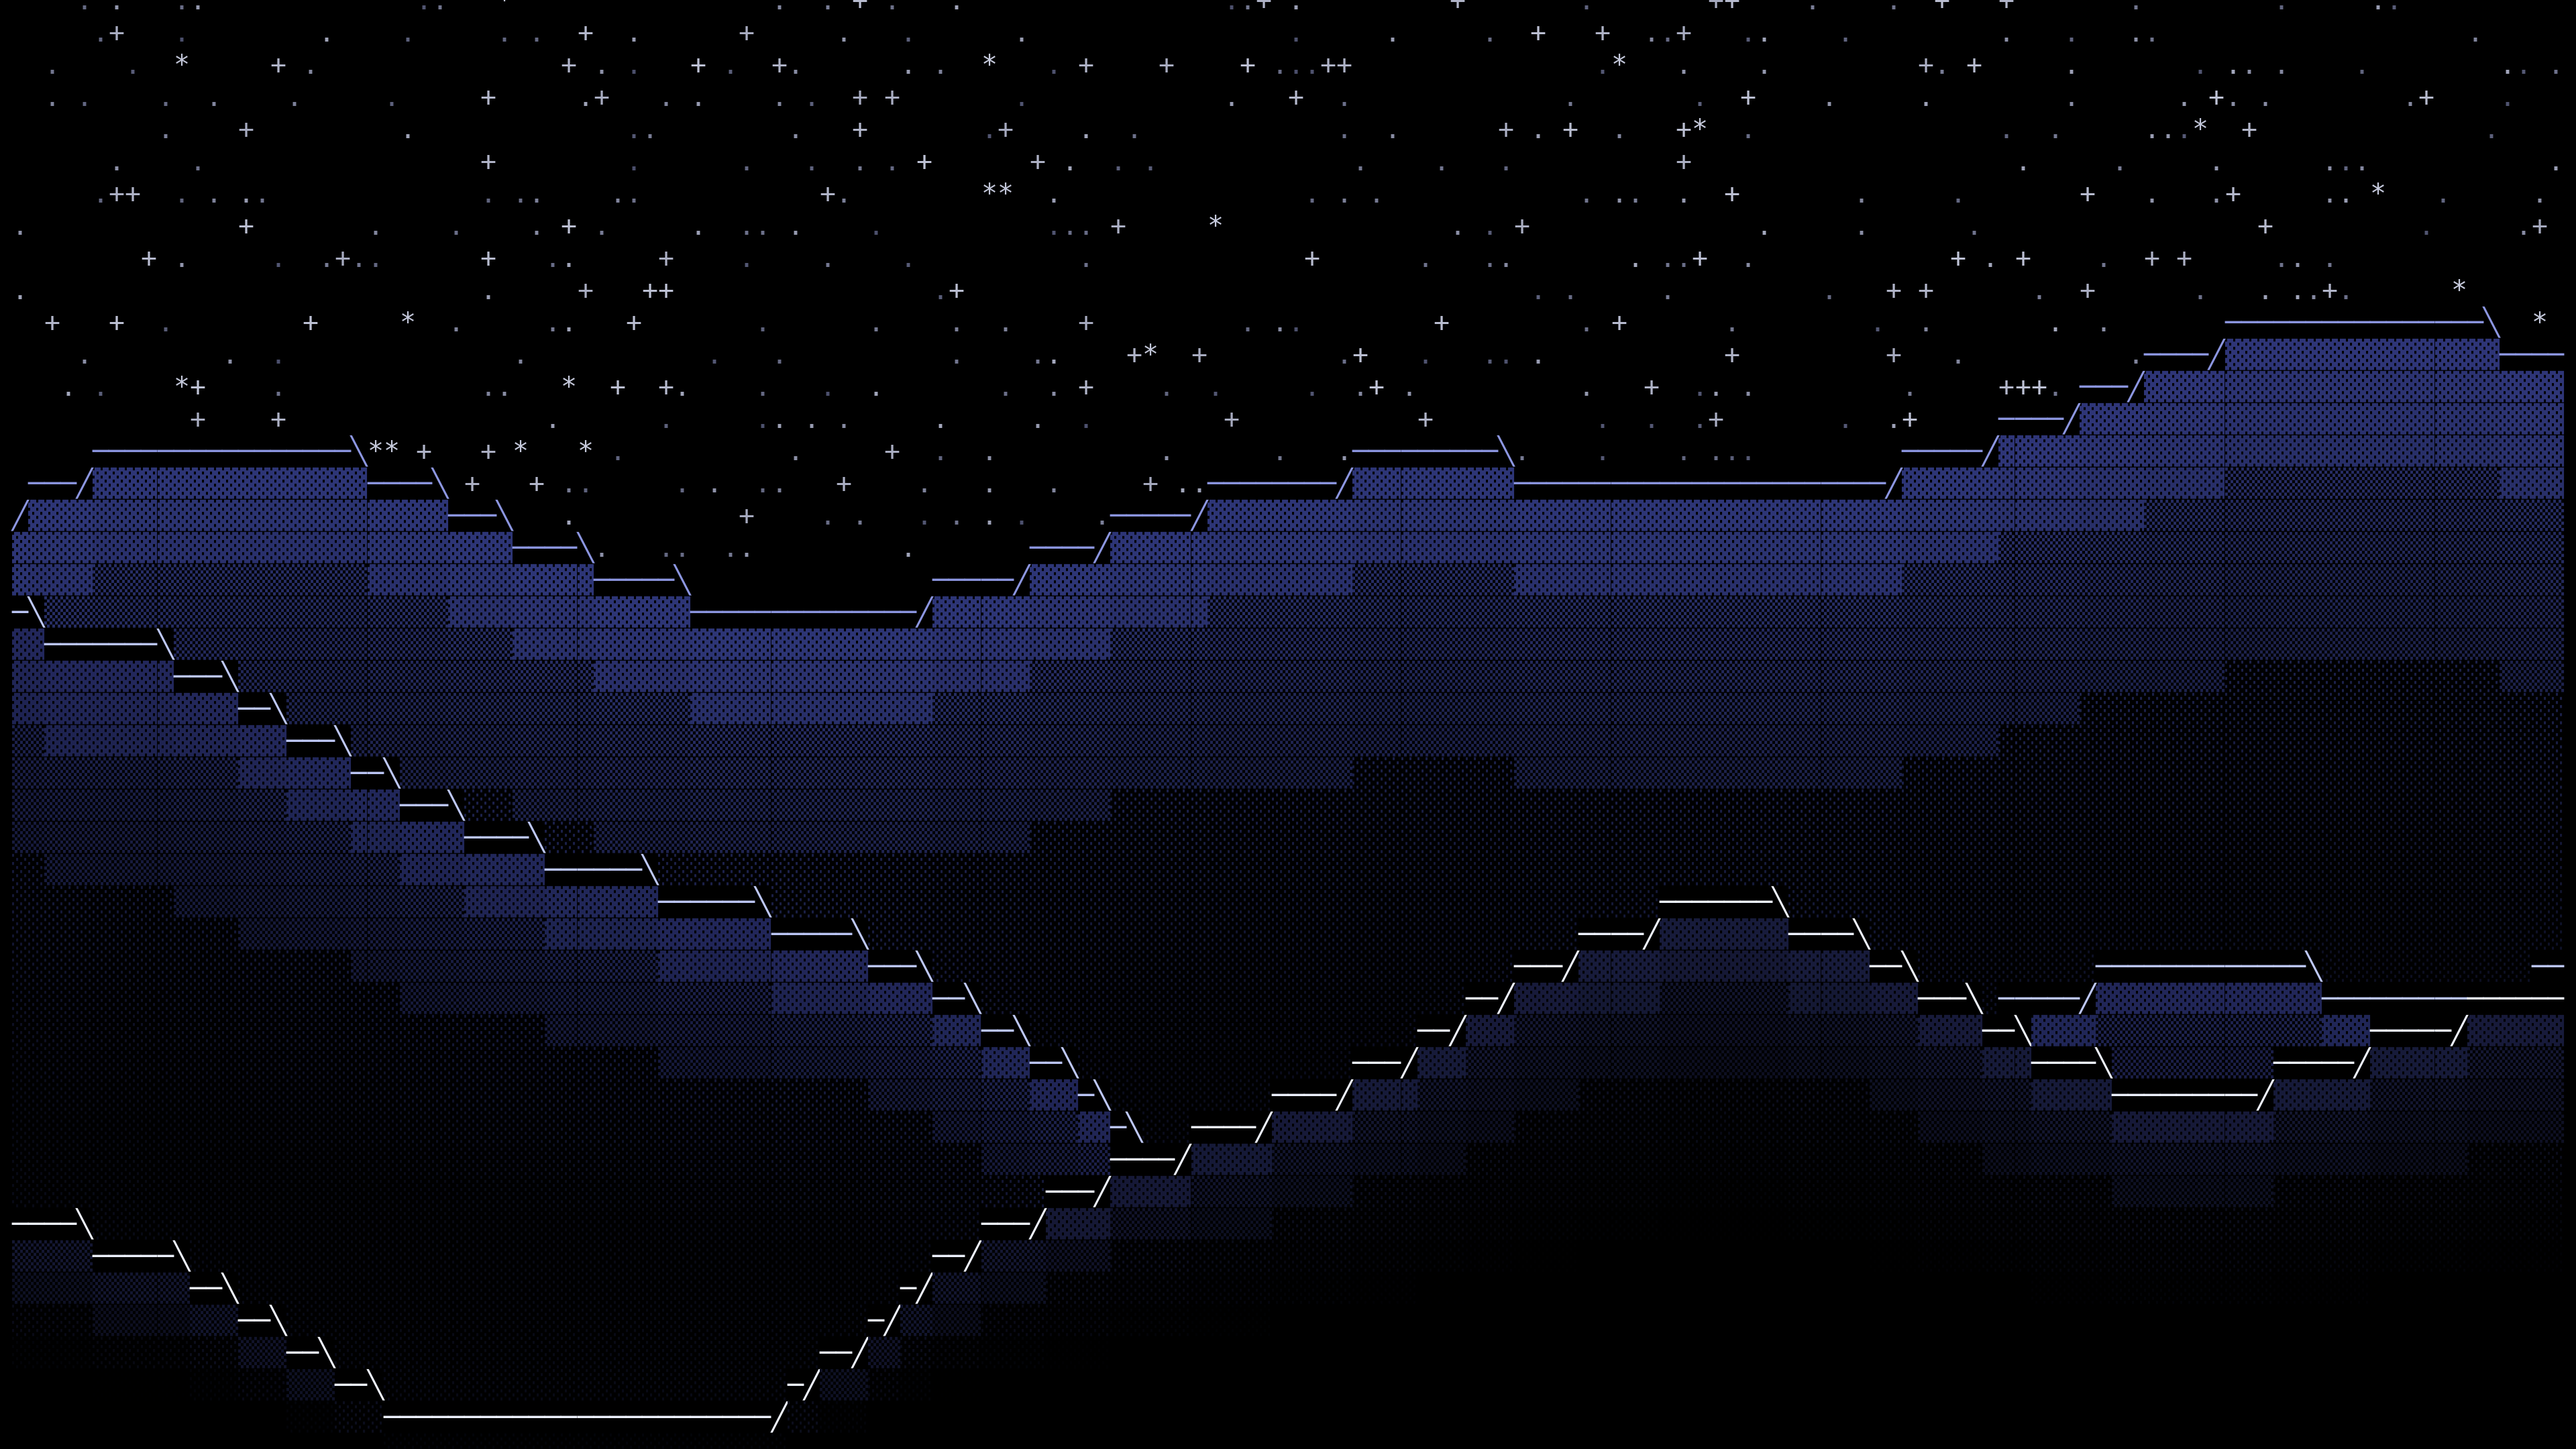
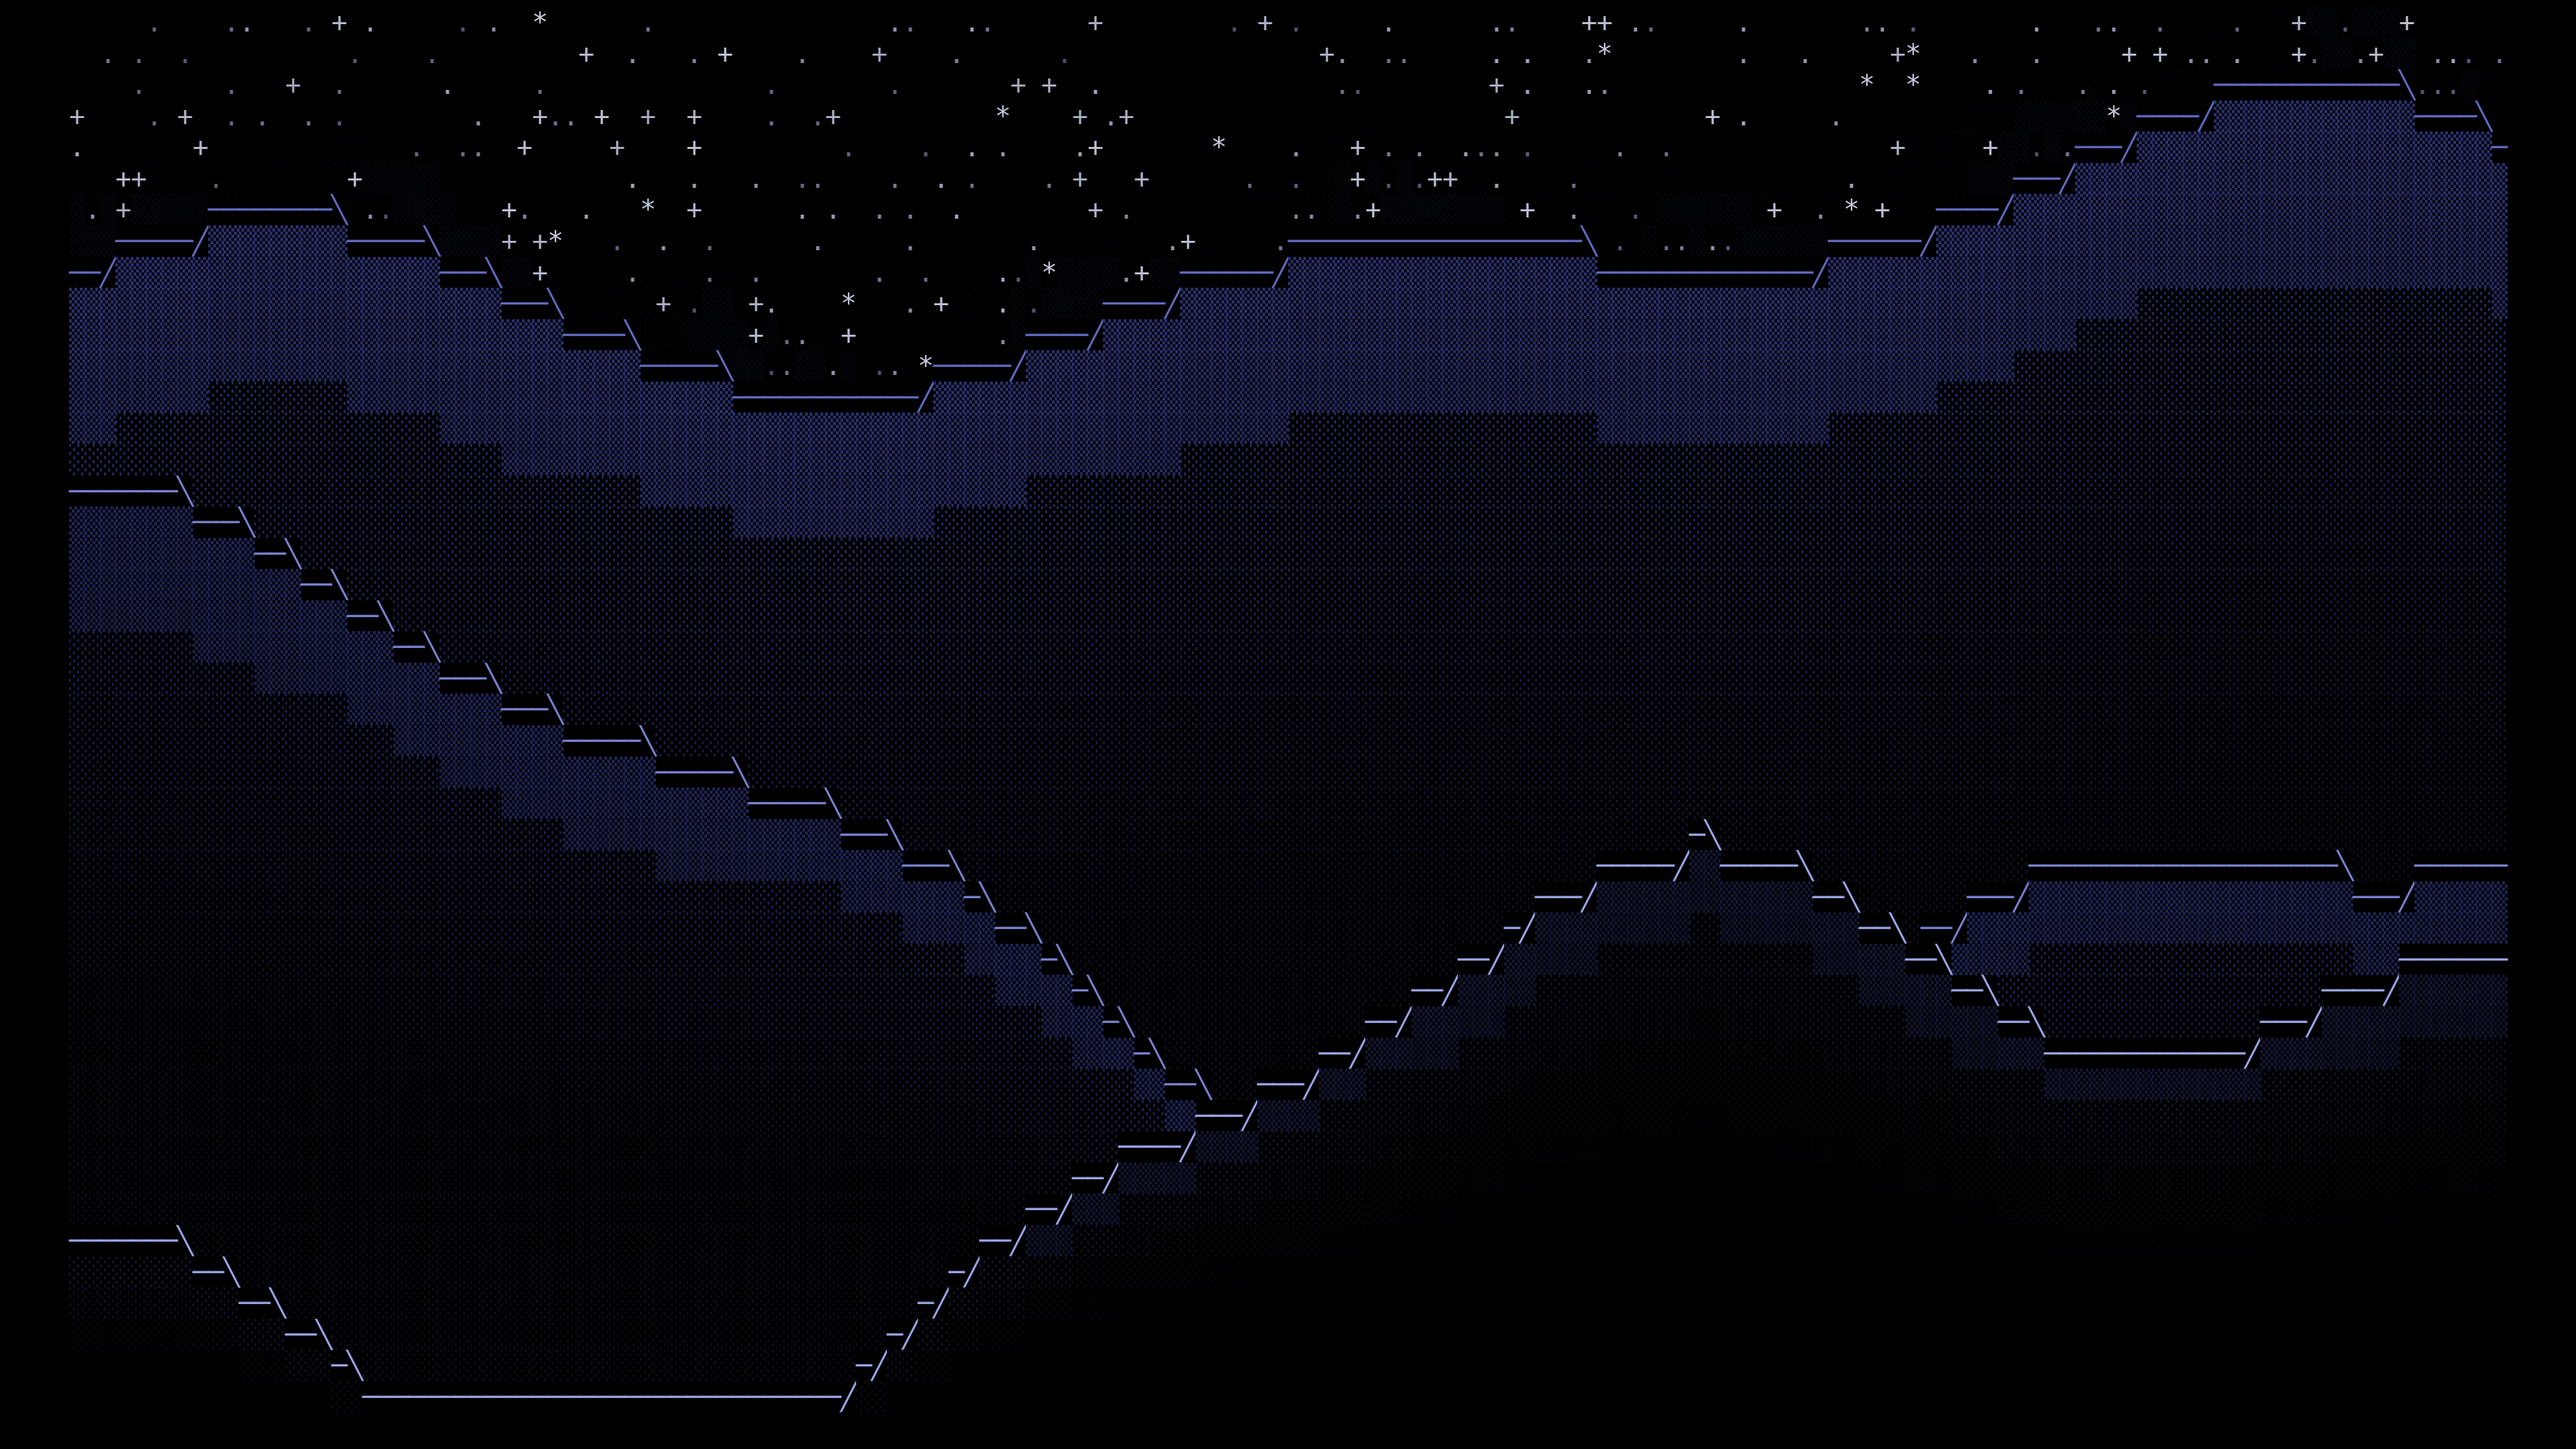
Restore flowing tunturi crests, soften to fill the frame; refine Otava
Tunturi returns to the layered box-drawing ridgelines with light mist,
now taller and wider so the fells span the 16:9 frame. Otava redrawn with
hero stars and a glowing Pohjantähti. Adds tools/wallpapers.py generator.

diff --git a/tools/wallpapers.py b/tools/wallpapers.py
@@ -1,0 +1,207 @@
+#!/usr/bin/env python3
+"""Kaamos arctic ASCII-art wallpapers: 3840x2160, grids matched to 16:9."""
+import math, os, random
+from PIL import Image, ImageDraw, ImageFont
+
+W, H = 3840, 2160
+FONT_PATH = "/usr/share/fonts/TTF/DejaVuSansMono.ttf"
+OUT = os.path.join(os.path.dirname(os.path.abspath(__file__)), "..", "backgrounds")
+
+RAMP = [" ", "\u2591", "\u2592", "\u2593", "\u2588"]
+FROST = (236, 240, 255)
+DEEP = (26, 30, 56)
+MID = (94, 102, 216)
+DIM = (34, 38, 70)
+
+ROWS = 46
+COLS = round(ROWS * 3.438)  # -> 16:9 once cell metrics are applied
+
+BOX = {(1, 0): "\u2500", (-1, 0): "\u2500", (0, 1): "\u2502", (0, -1): "\u2502",
+       (1, 1): "\u2572", (-1, -1): "\u2572", (1, -1): "\u2571", (-1, 1): "\u2571"}
+
+
+def lerp(a, b, t):
+    t = max(0.0, min(1.0, t))
+    return tuple(int(a[i] + (b[i] - a[i]) * t) for i in range(3))
+
+
+def tri(t):
+    return lerp(DEEP, MID, t / 0.5) if t < 0.5 else lerp(MID, FROST, (t - 0.5) / 0.5)
+
+
+def blank(rows=ROWS, cols=COLS):
+    return [[(" ", (0, 0, 0)) for _ in range(cols)] for _ in range(rows)]
+
+
+def put(g, r, c, ch, col):
+    if 0 <= r < len(g) and 0 <= c < len(g[r]):
+        g[r][c] = (ch, col)
+
+
+def draw_grid(grid, fname):
+    cols = max(len(r) for r in grid)
+    rows = len(grid)
+    size = min((W * 0.995) / (cols * 0.6021), (H * 0.995) / (rows * 1.1645))
+    font = ImageFont.truetype(FONT_PATH, max(8, int(round(size))))
+    cw = font.getlength("M") * 0.955
+    asc, desc = font.getmetrics()
+    lh = (asc + desc) * 0.97
+    left = (W - cols * cw) / 2
+    top = (H - rows * lh) / 2
+    img = Image.new("RGB", (W, H), (0, 0, 0))
+    d = ImageDraw.Draw(img)
+    for r, row in enumerate(grid):
+        y = round(top + r * lh)
+        for c, (ch, col) in enumerate(row):
+            if ch == " ":
+                continue
+            d.text((round(left + c * cw), y), ch, font=font, fill=col)
+    img.save(f"{OUT}/{fname}")
+    print(f"wrote {fname}  {cols}x{rows}  size {int(round(size))}")
+
+
+def stars(g, n, ymax, band=None, seed=0):
+    random.seed(seed)
+    for _ in range(n):
+        x = random.randrange(len(g[0]))
+        y = random.randrange(ymax)
+        if band:
+            b = band[0] + (x / len(g[0])) * (band[1] - band[0])
+            y = int(max(0, min(ymax - 1, random.gauss(b, band[2]))))
+        t = random.random()
+        ch = "." if t < 0.72 else ("+" if t < 0.94 else "*")
+        col = lerp(DIM, FROST, 0.2 + 0.62 * t)
+        cur = g[y][x]
+        if cur[0] == " " or (ch in "+*" and cur[0] == "."):
+            g[y][x] = (ch, col)
+
+
+def aurora():
+    g = blank()
+    stars(g, 620, int(ROWS * 0.85), seed=7)
+    for x in range(COLS):
+        lobe = 0.5 + 0.5 * math.sin(x * 0.026 + 0.4)
+        presence = lobe ** 1.15 * (0.55 + 0.45 * abs(math.sin(x * 0.10 + 0.8)))
+        if presence < 0.05:
+            continue
+        te = 3 + 2.6 * math.sin(x * 0.05 + 1.0) + 1.6 * math.sin(x * 0.17)
+        be = te + 9 + 11 * presence + 3.0 * math.sin(x * 0.07 + 2.0) + 2.0 * math.sin(x * 0.21)
+        lo = 0.5 + 0.5 * math.sin(x * 0.055 + 0.2)
+        for y in range(max(0, int(te)), min(ROWS, int(be))):
+            u = max(0.0, y - te) / max(1.0, be - te)
+            striation = 0.45 + 0.55 * abs(math.sin(x * 0.8 + y * 0.02))
+            i = (u ** 1.6) * striation * (0.35 + 0.65 * lo) * (0.5 + 0.5 * presence)
+            if i < 0.09:
+                continue
+            ch = RAMP[min(4, 1 + int(i * 4.3))]
+            g[y][x] = (ch, tri(i))
+    draw_grid(g, "2-kaamos-aurora.png")
+
+
+def tunturi():
+    g = blank()
+    stars(g, 620, 15, seed=11)
+    # layered fells: flowing box-drawing crests over a light mist, tall and
+    # wide so they span the whole 16:9 frame rather than a narrow band.
+    layers = [
+        (14, 9.0, [(0.017, 0.0, 1.0), (0.041, 1.7, 0.5), (0.09, 0.6, 0.25)], (44, 52, 118), (12, 14, 32), (96, 106, 192), 5, 0.50),
+        (25, 8.5, [(0.023, 2.3, 1.0), (0.052, 0.4, 0.5), (0.10, 1.9, 0.28)], (34, 40, 94), (10, 12, 28), (120, 130, 208), 4, 0.45),
+        (36, 8.0, [(0.030, 4.0, 1.0), (0.065, 2.1, 0.45), (0.13, 0.2, 0.22)], (23, 27, 60), (0, 0, 0), (154, 164, 230), 4, 0.40),
+    ]
+    for base, amp, waves, top, bot, rim, mist_rows, mist_str in layers:
+        prof = [max(1, min(ROWS - 2, int(round(base - amp * sum(a * math.sin(x * f + p) for f, p, a in waves))))) for x in range(COLS)]
+        for x in range(COLS):
+            for k in range(1, mist_rows + 1):
+                y = prof[x] - k
+                if y < 0:
+                    break
+                i = mist_str * (1 - k / (mist_rows + 1)) * (0.75 + 0.25 * math.sin(x * 0.3 + k * 0.7))
+                if i < 0.05 or g[y][x][0] != " ":
+                    continue
+                g[y][x] = (RAMP[1] if i < 0.3 else RAMP[2], lerp((14, 16, 38), (0, 0, 0), 1 - i))
+        for x in range(COLS):
+            a = prof[x]
+            b = prof[x + 1] if x + 1 < COLS else a
+            slope = b - a
+            ch = "\u2571" if slope < 0 else ("\u2572" if slope > 0 else "\u2500")
+            g[a][x] = (ch, rim)
+            for y in range(a + 1, ROWS):
+                t = min(1.0, (y - a) / max(1, ROWS - a) * 1.8)
+                g[y][x] = (RAMP[2] if t < 0.25 else RAMP[1], lerp(top, bot, t))
+    draw_grid(g, "3-tunturi.png")
+
+
+def seg(g, c1, r1, c2, r2, guide=False, color=None):
+    n = max(abs(c2 - c1), abs(r2 - r1))
+    if n == 0:
+        return
+    for i in range(1, n):
+        c = round(c1 + (c2 - c1) * i / n)
+        r = round(r1 + (r2 - r1) * i / n)
+        if g[r][c][0] not in (" ", ".", "+", "*"):
+            continue
+        if guide and i % 3:
+            continue
+        pc = round(c1 + (c2 - c1) * (i - 1) / n)
+        pr = round(r1 + (r2 - r1) * (i - 1) / n)
+        dc = 0 if c == pc else (1 if c2 > c1 else -1)
+        dr = 0 if r == pr else (1 if r2 > r1 else -1)
+        ch = BOX.get((dc, dr), "\u00b7")
+        g[r][c] = (ch, color or lerp(DIM, FROST, 0.35 if guide else 0.62))
+
+
+def hero(g, c, r, color=FROST):
+    for dc, dr in [(0, 0), (-1, 0), (1, 0), (0, -1), (0, 1)]:
+        put(g, r + dr, c + dc, "*", color)
+    for dc, dr in [(-1, -1), (1, -1), (-1, 1), (1, 1)]:
+        if g[r + dr][c + dc][0] in (" ", ".", "+"):
+            g[r + dr][c + dc] = ("\u00b7", lerp(DIM, MID, 0.55))
+
+
+def hero_big(g, c, r):
+    for k in range(1, 4):
+        for dc, dr in [(-k, 0), (k, 0), (0, -k), (0, k)]:
+            put(g, r + dr, c + dc, "*" if k < 3 else "+", lerp(FROST, MID, 0.25 if k < 3 else 0.6))
+    for dc, dr in [(-1, -1), (1, -1), (-1, 1), (1, 1)]:
+        put(g, r + dr, c + dc, "+", lerp(FROST, MID, 0.5))
+    for k in range(4, 7):
+        for dc, dr in [(-k, 0), (k, 0), (0, -k), (0, k)]:
+            if g[r + dr][c + dc][0] in (" ", ".", "+"):
+                g[r + dr][c + dc] = ("\u00b7", lerp(DIM, FROST, 0.35))
+
+
+def text(g, s, c, r, col):
+    for i, ch in enumerate(s):
+        put(g, r, c + i, ch, (0, 0, 0) if ch == " " else col)
+
+
+def otava():
+    g = blank()
+    stars(g, 720, ROWS, band=(5, 27, 2.4), seed=3)
+    stars(g, 280, ROWS, seed=5)
+    pts = {"A": (34, 31), "B": (48, 32), "C": (52, 23), "D": (38, 22),
+           "E": (64, 29), "F": (78, 27), "G": (92, 24)}
+    pohjan = (122, 9)
+    # barely-there dotted ties so the seven stars read as one figure
+    for a, b in [("A", "B"), ("B", "C"), ("C", "D"), ("D", "A"),
+                 ("B", "E"), ("E", "F"), ("F", "G")]:
+        seg(g, pts[a][0], pts[a][1], pts[b][0], pts[b][1], color=lerp(DIM, MID, 0.7))
+    seg(g, pts["D"][0], pts["D"][1], pohjan[0], pohjan[1], guide=True, color=lerp(DIM, MID, 0.6))
+    for (c, r) in pts.values():
+        hero(g, c, r)
+    hero_big(g, pohjan[0], pohjan[1])
+    text(g, "P O H J A N T \u00c4 H T I", pohjan[0] - 15, pohjan[1] + 4, lerp(FROST, MID, 0.35))
+    text(g, "O T A V A", 40, 36, lerp(FROST, MID, 0.45))
+    draw_grid(g, "4-otava.png")
+
+
+def main():
+    Image.new("RGB", (W, H), (0, 0, 0)).save(f"{OUT}/1-black.png")
+    print("wrote 1-black.png")
+    aurora()
+    tunturi()
+    otava()
+
+
+if __name__ == "__main__":
+    main()
